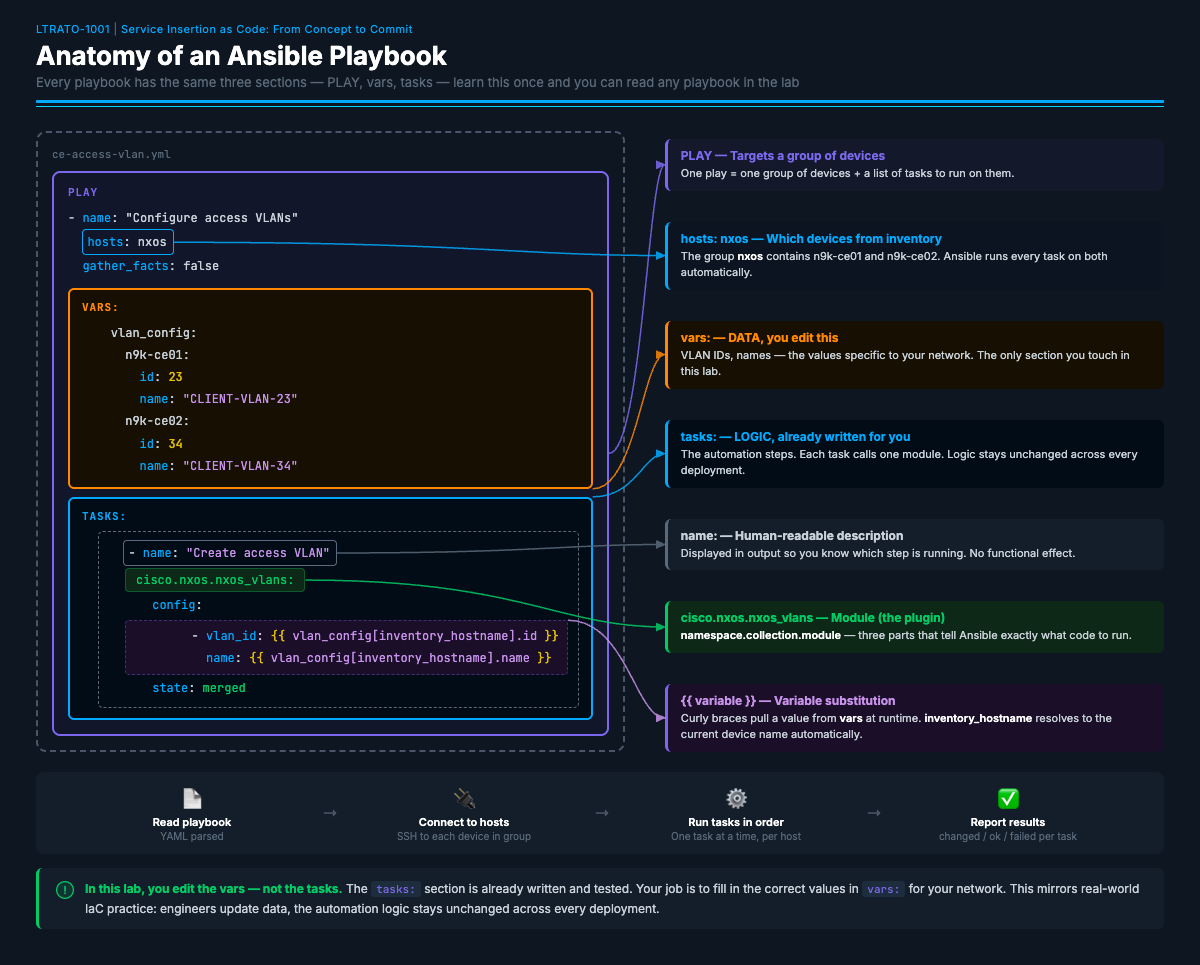
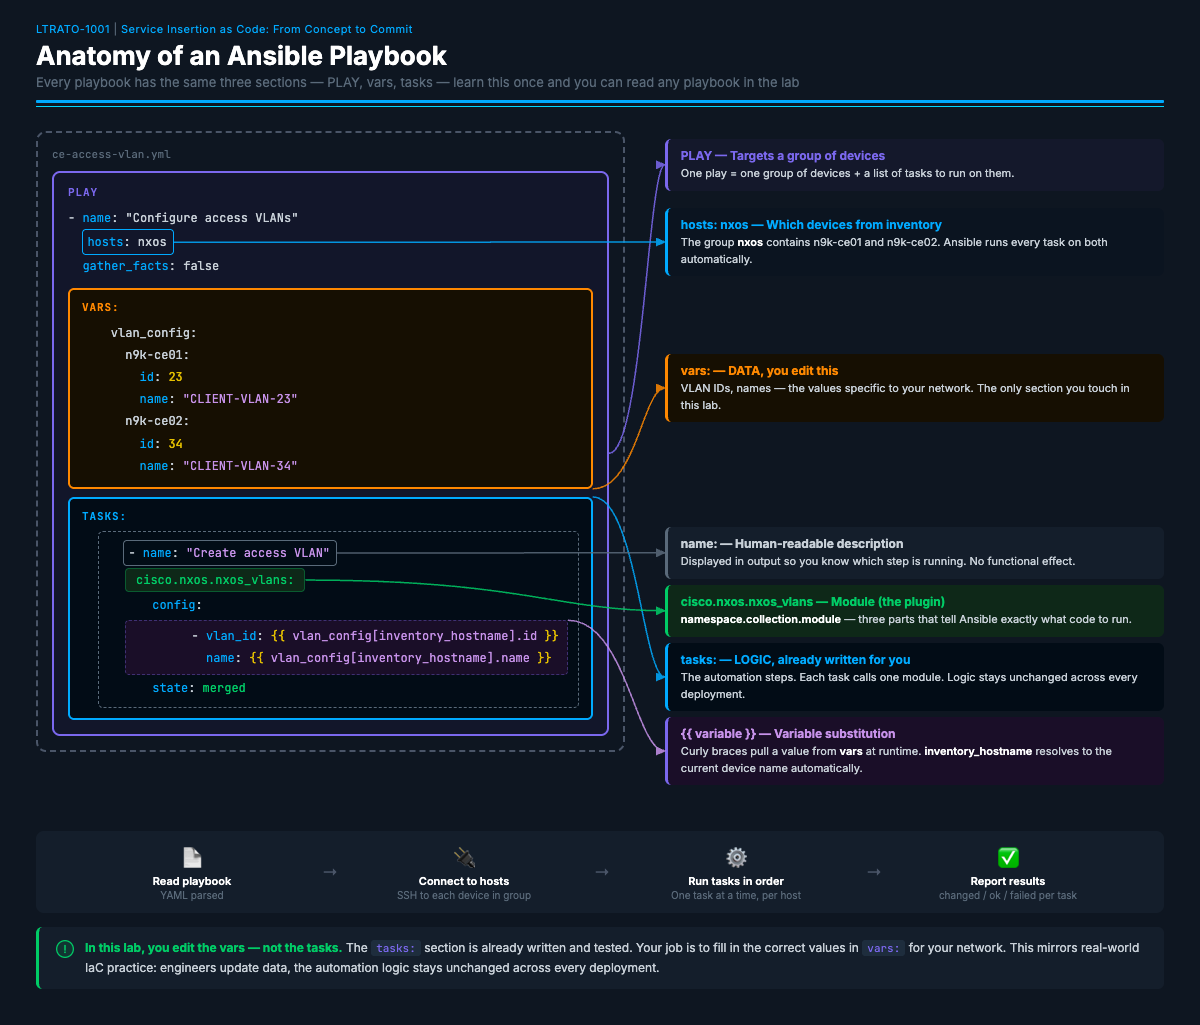
fix: align callouts to source element positions, use absolute positioning on right panel

Changed region(s): [[0.0308, 0.0, 0.9867, 0.7772], [0.0308, 0.8083, 0.9558, 0.9637]]

diff --git a/primer-playbook-anatomy.html b/primer-playbook-anatomy.html
@@ -99,18 +99,15 @@
     padding: 1px 6px 1px 4px;
   }
 
-  /* RIGHT: evenly spaced callout stack — stretch to match left panel height */
+  /* RIGHT: absolutely positioned callouts aligned to source elements */
   .right-panel {
     flex: 1;
-    display: flex;
-    flex-direction: column;
-    gap: 0;
-    padding-top: 8px;
-    justify-content: space-between;
-    align-self: stretch;
+    position: relative;
+    min-height: 680px;
   }
   .callout {
     border-radius: 6px; padding: 9px 13px; border-left: 3px solid;
+    position: absolute; left: 0; right: 0;
   }
   .callout-title { font-size: 12px; font-weight: 700; margin-bottom: 2px; }
   .callout-desc  { font-size: 11px; color: #c8d0d8; line-height: 1.5; }
@@ -222,31 +219,31 @@
 
     <!-- RIGHT panel -->
     <div class="right-panel">
-      <div class="callout c-play"   id="c-play">
+      <div class="callout c-play"   id="c-play"   style="top:8px;">
         <div class="callout-title">PLAY — Targets a group of devices</div>
         <div class="callout-desc">One play = one group of devices + a list of tasks to run on them.</div>
       </div>
-      <div class="callout c-hosts"  id="c-hosts">
+      <div class="callout c-hosts"  id="c-hosts"  style="top:77px;">
         <div class="callout-title">hosts: nxos — Which devices from inventory</div>
         <div class="callout-desc">The group <em>nxos</em> contains n9k-ce01 and n9k-ce02. Ansible runs every task on both automatically.</div>
       </div>
-      <div class="callout c-vars"   id="c-vars">
+      <div class="callout c-vars"   id="c-vars"   style="top:223px;">
         <div class="callout-title">vars: — DATA, you edit this</div>
         <div class="callout-desc">VLAN IDs, names — the values specific to your network. The only section you touch in this lab.</div>
       </div>
-      <div class="callout c-tasks"  id="c-tasks">
+      <div class="callout c-tasks"  id="c-tasks"  style="top:512px;">
         <div class="callout-title">tasks: — LOGIC, already written for you</div>
         <div class="callout-desc">The automation steps. Each task calls one module. Logic stays unchanged across every deployment.</div>
       </div>
-      <div class="callout c-name"   id="c-name">
+      <div class="callout c-name"   id="c-name"   style="top:396px;">
         <div class="callout-title">name: — Human-readable description</div>
         <div class="callout-desc">Displayed in output so you know which step is running. No functional effect.</div>
       </div>
-      <div class="callout c-module" id="c-module">
+      <div class="callout c-module" id="c-module" style="top:454px;">
         <div class="callout-title">cisco.nxos.nxos_vlans — Module (the plugin)</div>
         <div class="callout-desc"><em>namespace.collection.module</em> — three parts that tell Ansible exactly what code to run.</div>
       </div>
-      <div class="callout c-var"    id="c-var">
+      <div class="callout c-var"    id="c-var"    style="top:586px;">
         <div class="callout-title">{{ variable }} — Variable substitution</div>
         <div class="callout-desc">Curly braces pull a value from <em>vars</em> at runtime. <em>inventory_hostname</em> resolves to the current device name automatically.</div>
       </div>
